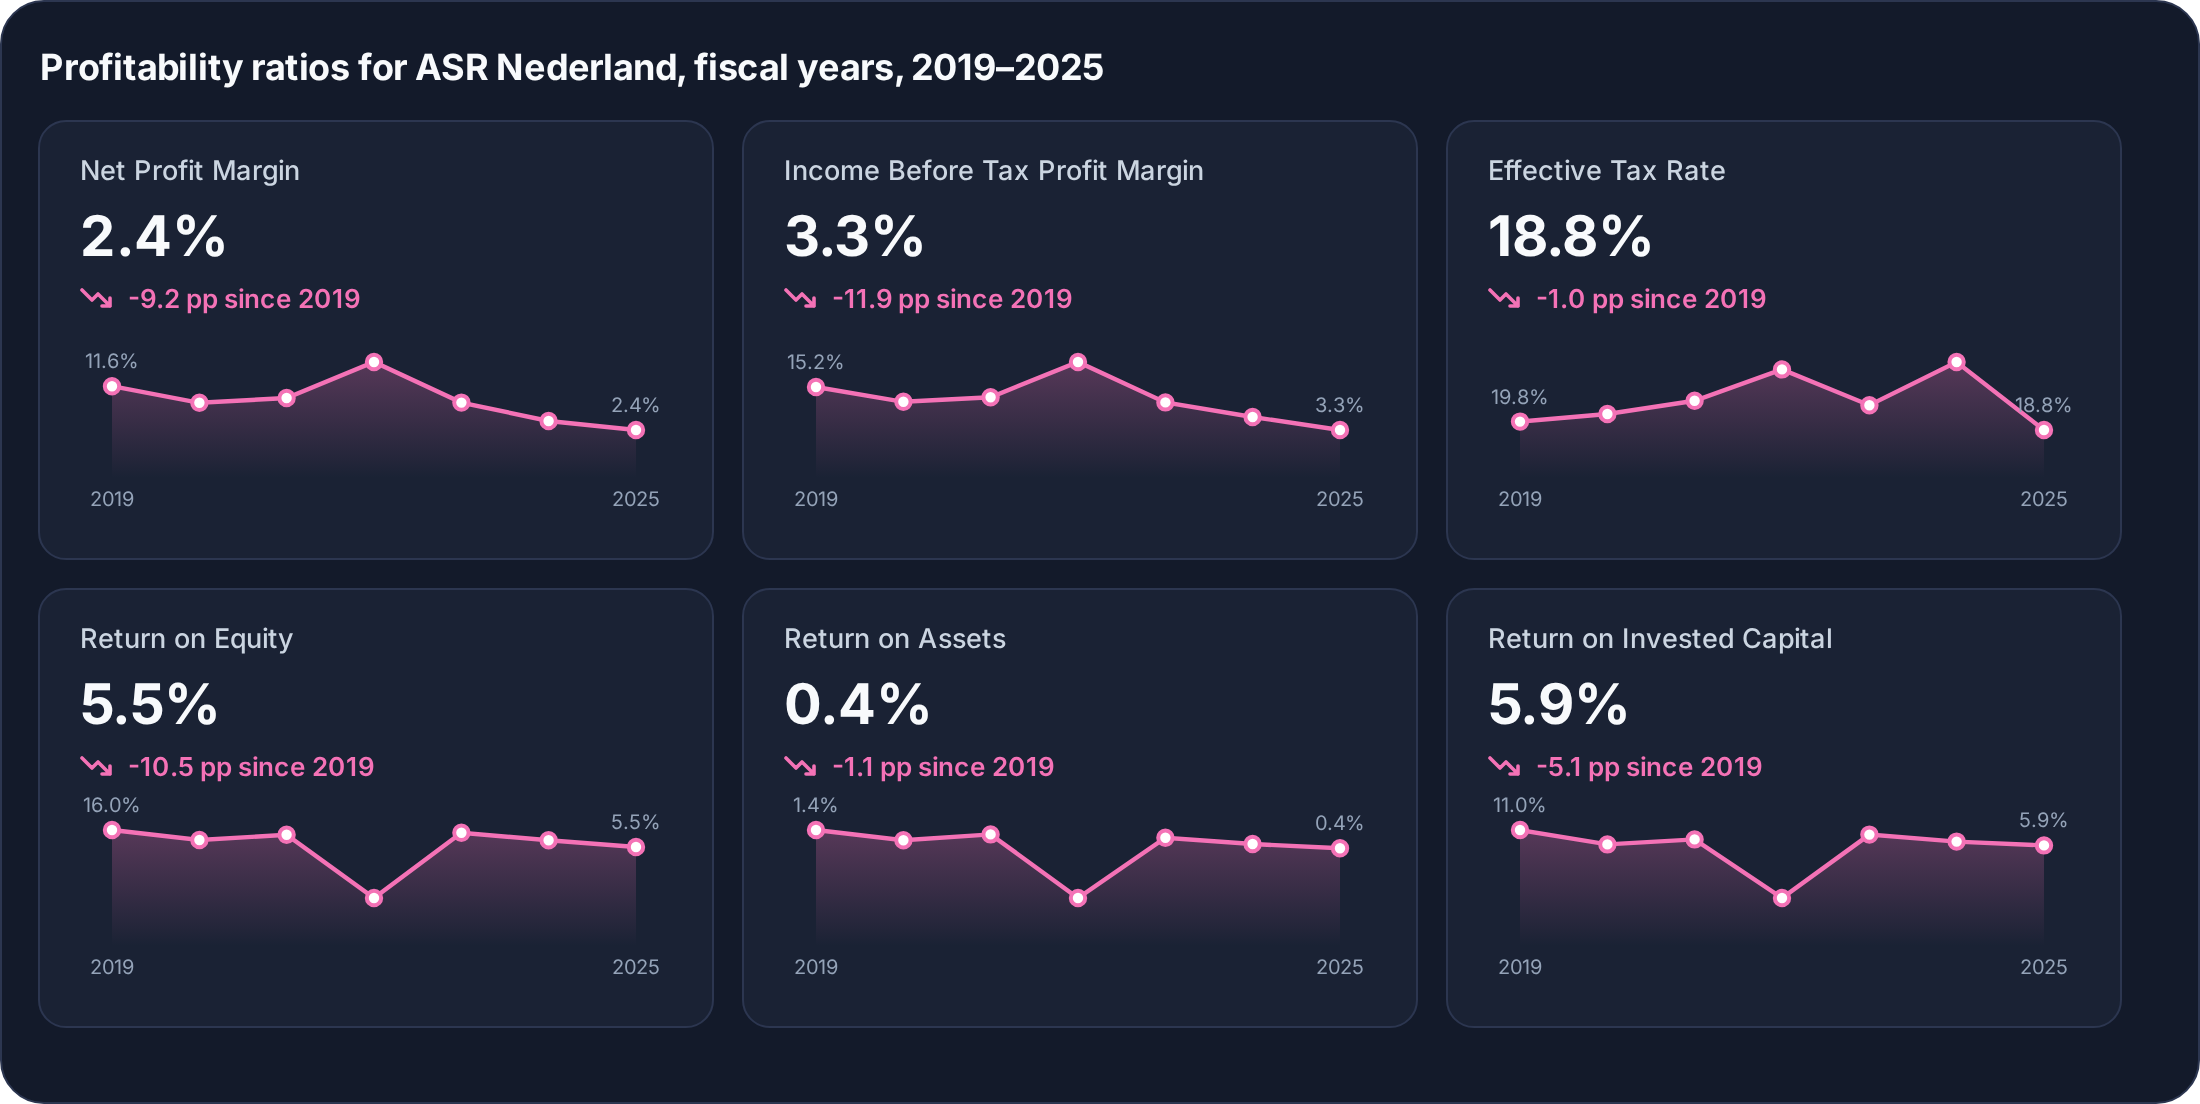
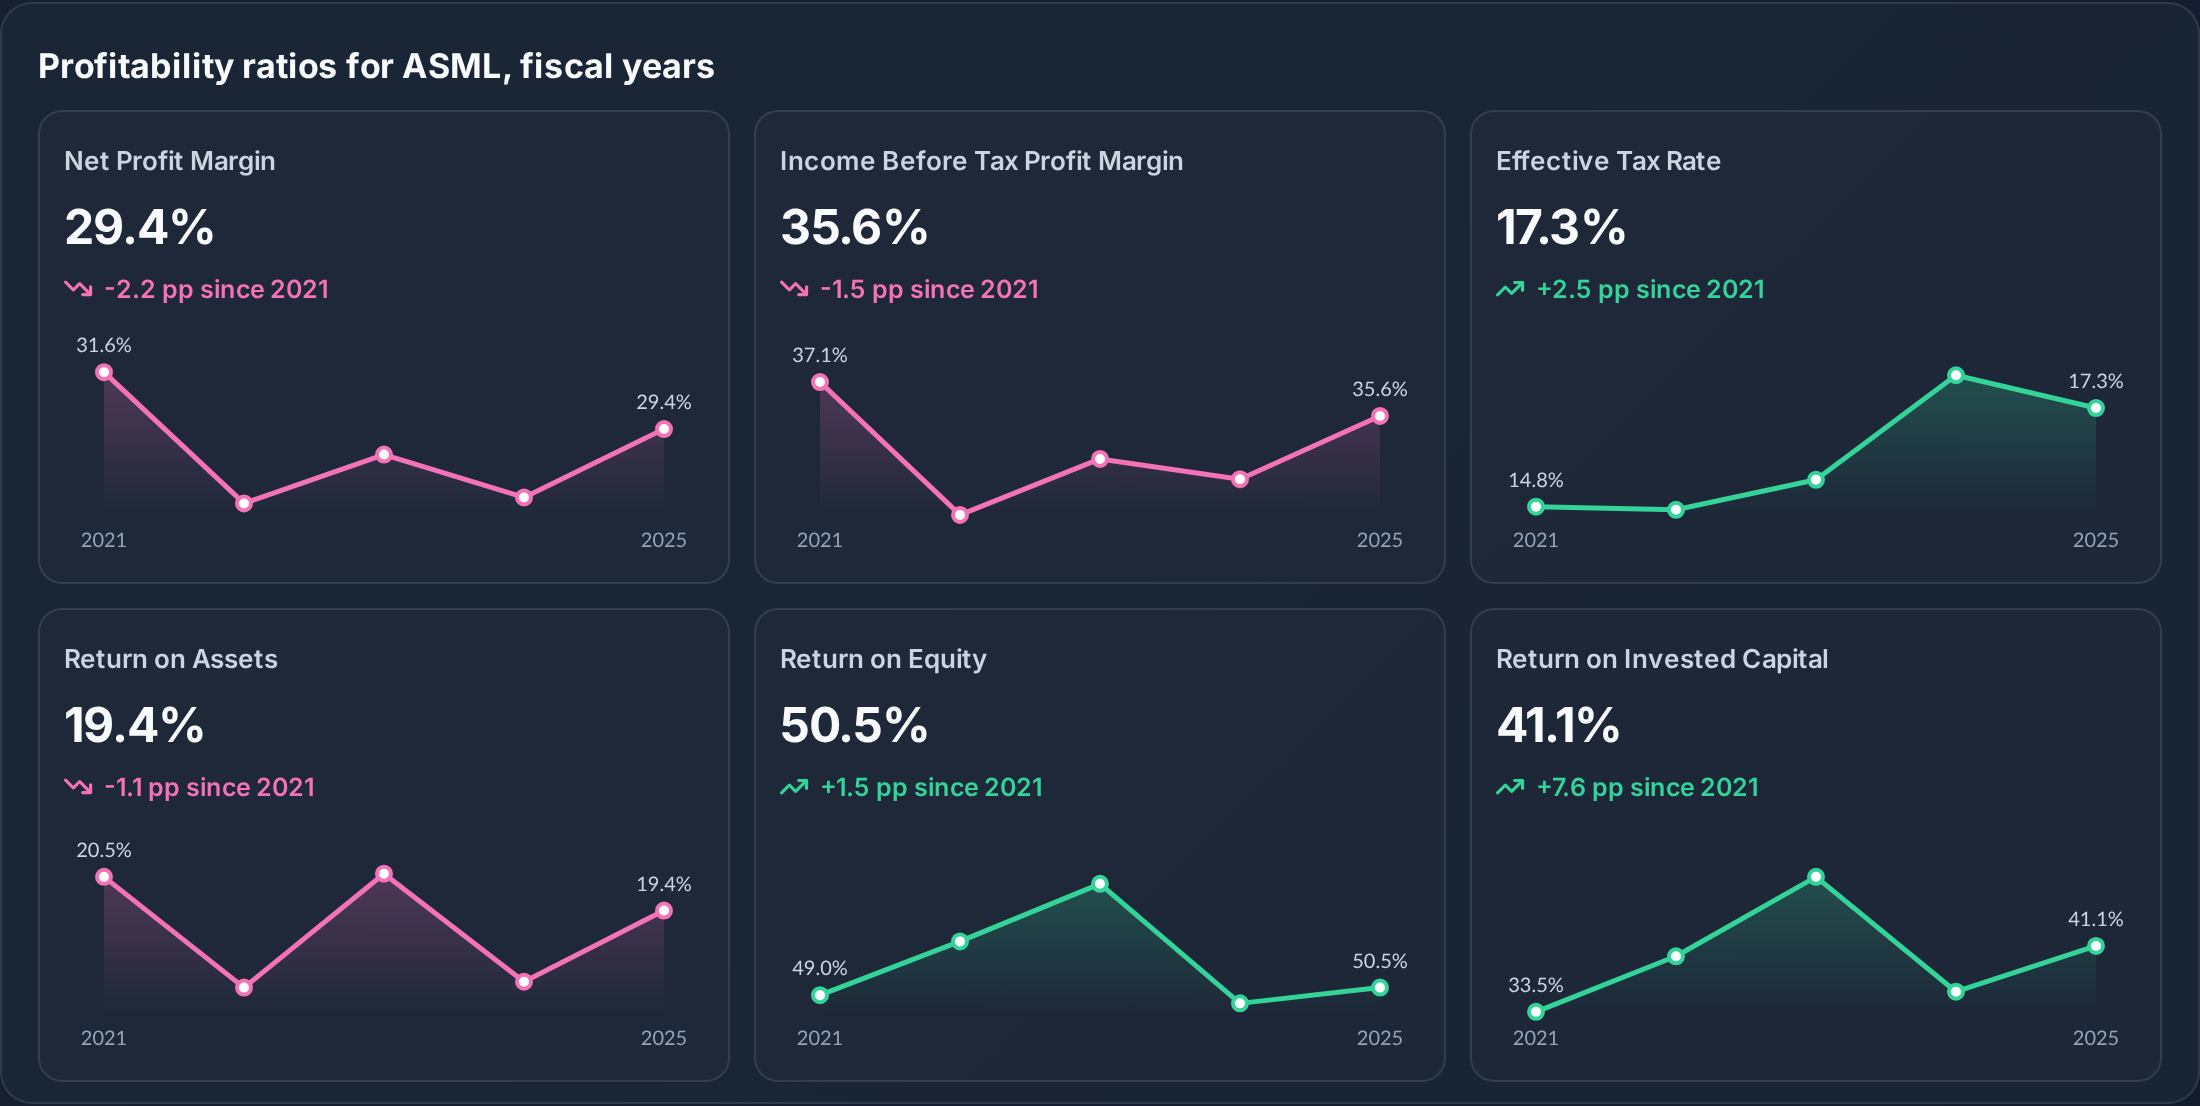
Use the Dutch semiconductor companies in the README walkthrough (#266)
* Use the Dutch semiconductor companies in the README walkthrough

* Replace the README Finance Toolkit charts with the Dutch semiconductor companies

diff --git a/README.md b/README.md
@@ -159,7 +159,7 @@ Which returns:
  'Payments & Specialty Finance']
 ```
 
-And below the number of companies in each of these industries is shown. Each company is counted once, however many exchanges it is listed on: listings that share an ISIN, share class FIGI, website or the first word of their name (such as Aegon and its perpetual bonds) are combined.
+And below the number of companies in each of these industries is shown. Each company is counted once, however many exchanges it is listed on: listings that share an ISIN, share class FIGI, website or the first word of their name (such as ING Groep's listings in Amsterdam, Frankfurt, New York and São Paulo) are combined.
 
 <picture>
   <source media="(prefers-color-scheme: dark)" srcset="https://raw.githubusercontent.com/JerBouma/FinanceDatabase/main/assets/readme/options-dark.png">
@@ -193,25 +193,24 @@ This returns 194 companies, of which a few of the larger ones are shown below.
 
 Without `only_primary_listing=True`, the same query returns 455 listings on 23 exchanges, because every exchange a company trades on is shown by default. Progressive, for example, also appears as `PGV.F` (Frankfurt), `PGV.SG` (Stuttgart), `PGR.MX` (Mexico) and `P1GR34.SA` (B3). The primary listing of a company is its listing on the main exchange of its home market, or without one its listing on the largest main exchange abroad. It is worked out from the data itself, so it works for companies anywhere: for ASML it is `ASML.AS` on Euronext Amsterdam, not `ASML` on NASDAQ or `ASMLF` over the counter. To get the listings in a particular country instead, such as the US listings of ASML, filter on the `exchange`, `market` or `currency`.
 
-For the Netherlands, it makes sense to select the market "Euronext Amsterdam" (exchange "AMS"), here together with the market cap:
+For the Netherlands, it makes sense to select the market "Euronext Amsterdam" (exchange "AMS"), here for the semiconductor companies:
 
 ```python
-# Select the large insurance companies on Euronext Amsterdam
+# Select the semiconductor companies on Euronext Amsterdam
 equities.select(
     country="Netherlands",
-    industry="Insurance",
+    industry="Semiconductors & Chip Equipment",
     market="Euronext Amsterdam",
-    market_cap="Large Cap",
 )
 ```
 
 This gives the following three companies:
 
-| symbol   | name               | currency   | sector     | industry   | exchange   | market             | country     | market_cap   | isin         |
-|:---------|:-------------------|:-----------|:-----------|:-----------|:-----------|:-------------------|:------------|:-------------|:-------------|
-| AGN.AS   | Aegon N.V.         | EUR        | Financials | Insurance  | AMS        | Euronext Amsterdam | Netherlands | Large Cap    | BMG0112X1056 |
-| ASRNL.AS | ASR Nederland N.V. | EUR        | Financials | Insurance  | AMS        | Euronext Amsterdam | Netherlands | Large Cap    | NL0011872643 |
-| NN.AS    | NN Group N.V.      | EUR        | Financials | Insurance  | AMS        | Euronext Amsterdam | Netherlands | Large Cap    | NL0010773842 |
+| symbol   | name                             | currency   | sector                 | industry                        | exchange   | market             | country     | market_cap   | isin         |
+|:---------|:---------------------------------|:-----------|:-----------------------|:--------------------------------|:-----------|:-------------------|:------------|:-------------|:-------------|
+| ASM.AS   | ASM International N.V.           | EUR        | Information Technology | Semiconductors & Chip Equipment | AMS        | Euronext Amsterdam | Netherlands | Large Cap    | NL0000334118 |
+| ASML.AS  | ASML Holding N.V.                | EUR        | Information Technology | Semiconductors & Chip Equipment | AMS        | Euronext Amsterdam | Netherlands | Mega Cap     | NL0010273215 |
+| BESI.AS  | BE Semiconductor Industries N.V. | EUR        | Information Technology | Semiconductors & Chip Equipment | AMS        | Euronext Amsterdam | Netherlands | Large Cap    | NL0012866412 |
 
 Every filter also accepts a list, so both queries can be combined into one with `country=["Netherlands", "United States"]` and `market=["Euronext Amsterdam", "New York Stock Exchange", "NASDAQ Global Select"]`. Equities can be selected on `country`, `sector`, `industry_group`, `industry`, `currency`, `exchange`, `mic`, `market` and `market_cap`. **Try it in the Database Explorer [here](https://www.jeroenbouma.com/projects/financedatabase/explorer).**
 
@@ -313,38 +312,37 @@ ___
 <b><div align="center">Obtain an API Key from FinancialModelingPrep <a href="https://www.jeroenbouma.com/fmp" target="_blank">here</a>.</div></b>
 ___
 
-Returning to the three large insurance companies in the Netherlands:
+Returning to the three semiconductor companies in the Netherlands:
 
 ```python
-# Select the large insurance companies on Euronext Amsterdam
-dutch_insurance_companies = equities.select(
+# Select the semiconductor companies on Euronext Amsterdam
+dutch_semiconductor_companies = equities.select(
     country="Netherlands",
-    industry="Insurance",
+    industry="Semiconductors & Chip Equipment",
     market="Euronext Amsterdam",
-    market_cap="Large Cap",
 )
 
 # Load them into the Finance Toolkit
-toolkit = dutch_insurance_companies.to_toolkit(api_key="FINANCIAL_MODELING_PREP_KEY")
+toolkit = dutch_semiconductor_companies.to_toolkit(api_key="FINANCIAL_MODELING_PREP_KEY")
 
 # Obtain historical market data for all tickers
 historical_data = toolkit.get_historical_data()
 
-# Select the results for ASR Nederland
-historical_data.xs("ASRNL.AS", axis=1, level=1)
+# Select the results for ASML
+historical_data.xs("ASML.AS", axis=1, level=1)
 ```
 
-For example, a portion of the historical data for ASR Nederland is shown below.
+For example, a portion of the historical data for ASML is shown below.
 
-| date       |   Open |   High |   Low |   Close |   Adj Close |   Volume |   Dividends |   Return |   Cumulative Return |
-|:-----------|-------:|-------:|------:|--------:|------------:|---------:|------------:|---------:|--------------------:|
-| 2026-09-30 |  73.26 |  73.64 | 71.88 |   72.16 |       72.16 |   435324 |           0 |  -0.0118 |               3.608 |
-| 2026-10-01 |  71.52 |  71.72 | 70.58 |   71    |       71    |   666582 |           0 |  -0.0161 |               3.55  |
-| 2026-10-02 |  71.14 |  71.54 | 70.66 |   71.48 |       71.48 |   408475 |           0 |   0.0068 |               3.574 |
-| 2026-10-05 |  71.5  |  72.36 | 71.4  |   72.16 |       72.16 |   375435 |           0 |   0.0095 |               3.608 |
-| 2026-10-06 |  72.44 |  73.1  | 72.4  |   72.82 |       72.82 |    63282 |           0 |   0.0091 |               3.641 |
+| date       |   Open |   High |    Low |   Close |   Adj Close |   Volume |   Dividends |   Return |   Cumulative Return |
+|:-----------|-------:|-------:|-------:|--------:|------------:|---------:|------------:|---------:|--------------------:|
+| 2026-11-10 | 1348   | 1382.4 | 1330.6 |  1361   |      1361   |   719569 |           0 |   0.0128 |              1.8496 |
+| 2026-11-11 | 1390   | 1411.8 | 1368.6 |  1403.8 |      1403.8 |   664165 |           0 |   0.0314 |              1.9077 |
+| 2026-11-12 | 1369.2 | 1384.8 | 1351   |  1376.8 |      1376.8 |   766995 |           0 |  -0.0192 |              1.871  |
+| 2026-11-13 | 1360   | 1373.4 | 1325.2 |  1338.8 |      1338.8 |   699967 |           0 |  -0.0276 |              1.8194 |
+| 2026-11-16 | 1325   | 1332   | 1289.4 |  1306.6 |      1306.6 |   704121 |           0 |  -0.0241 |              1.7756 |
 
-And below the cumulative returns of Aegon, ASR Nederland and NN Group are plotted, including the S&P 500 as benchmark.
+And below the cumulative returns of ASM International, ASML and BE Semiconductor Industries are plotted, including the S&P 500 as benchmark.
 
 <picture>
   <source media="(prefers-color-scheme: dark)" srcset="https://raw.githubusercontent.com/JerBouma/FinanceDatabase/main/assets/readme/toolkit-dark.png">
@@ -357,21 +355,21 @@ Now let's make it more advanced by calculating the profitability ratios for each
 # Collect all Profitability Ratios for all tickers
 profitability_ratios = toolkit.ratios.collect_profitability_ratios()
 
-# Select the results for ASR Nederland
-profitability_ratios.loc["ASRNL.AS"]
+# Select the results for ASML
+profitability_ratios.loc["ASML.AS"]
 ```
 
-For example, see some of the profitability ratios of ASR Nederland below.
+For example, see some of the profitability ratios of ASML below.
 
-|                                 |   2018 |   2019 |   2020 |   2021 |    2022 |   2023 |   2024 |   2025 |
-|:--------------------------------|-------:|-------:|-------:|-------:|--------:|-------:|-------:|-------:|
-| Net Profit Margin               | 0.1055 | 0.116  | 0.0811 | 0.091  |  0.1666 | 0.0814 | 0.0427 | 0.024  |
-| Income Before Tax Profit Margin | 0.1564 | 0.1515 | 0.1104 | 0.1231 |  0.2202 | 0.1089 | 0.0688 | 0.0328 |
-| Effective Tax Rate              | 0.2168 | 0.1983 | 0.2075 | 0.2233 |  0.2609 | 0.2181 | 0.2699 | 0.1882 |
-| Return on Assets                | 0.0107 | 0.0144 | 0.0083 | 0.0118 | -0.0259 | 0.0098 | 0.0061 | 0.0036 |
-| Return on Equity                | 0.1118 | 0.16   | 0.0982 | 0.1305 | -0.2591 | 0.1427 | 0.0969 | 0.0552 |
+|                                 |   2021 |   2022 |   2023 |   2024 |   2025 |
+|:--------------------------------|-------:|-------:|-------:|-------:|-------:|
+| Net Profit Margin               | 0.3161 | 0.2656 | 0.2844 | 0.2679 | 0.2942 |
+| Income Before Tax Profit Margin | 0.371  | 0.3114 | 0.3365 | 0.3274 | 0.3558 |
+| Effective Tax Rate              | 0.1479 | 0.1471 | 0.1548 | 0.1816 | 0.1732 |
+| Return on Assets                | 0.2046 | 0.1691 | 0.2056 | 0.171  | 0.1938 |
+| Return on Equity                | 0.4901 | 0.5935 | 0.7042 | 0.4743 | 0.5046 |
 
-And below these and other profitability ratios of ASR Nederland, each with its latest value, the change over the period and its trend.
+And below these and other profitability ratios of ASML, each with its latest value, the change over the period and its trend.
 
 <picture>
   <source media="(prefers-color-scheme: dark)" srcset="https://raw.githubusercontent.com/JerBouma/FinanceDatabase/main/assets/readme/ratios-dark.png">
